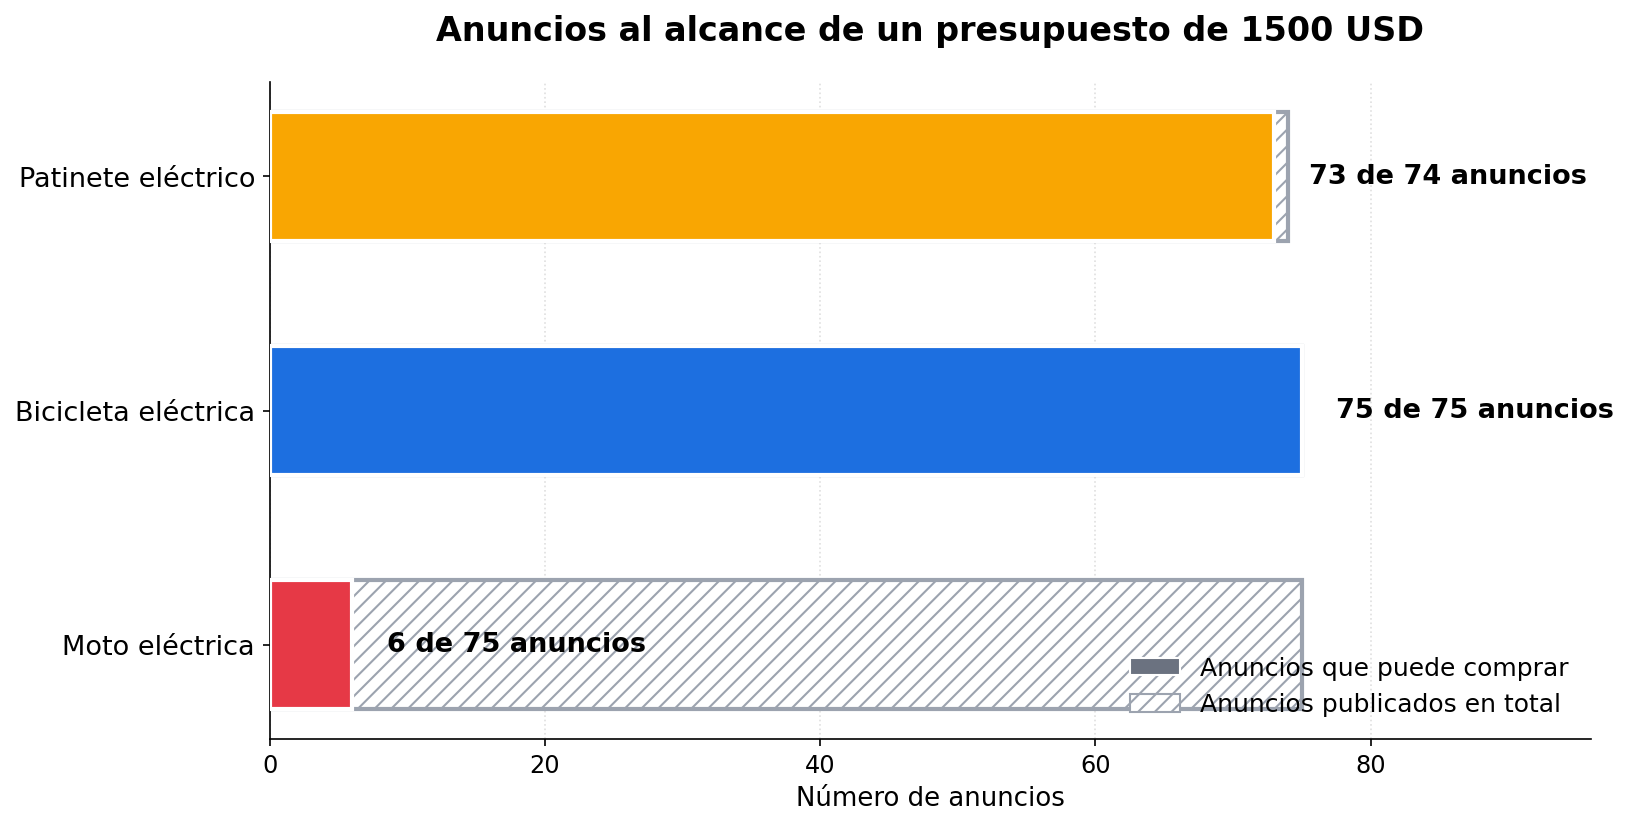
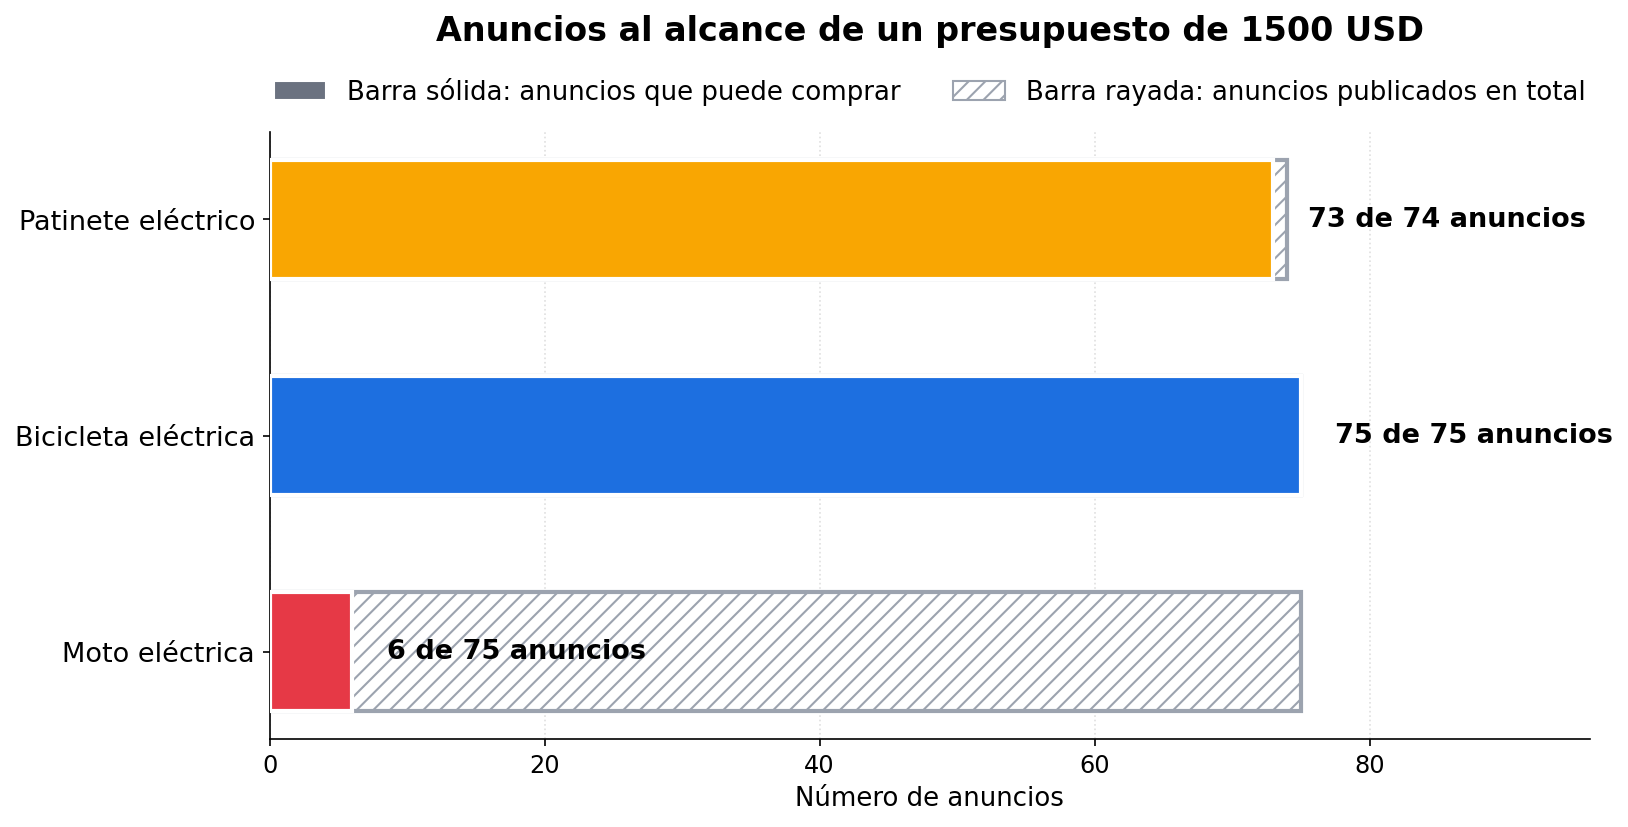
Leyendas encima de las barras, linea de mediana en negro y titulo de la fuente corregido

diff --git a/analisis.py b/analisis.py
@@ -30,6 +30,7 @@ import json
 import statistics as stat
 from pathlib import Path
 
+import matplotlib.patheffects as pe
 import matplotlib.pyplot as plt
 
 # ==============================================================================
@@ -252,6 +253,12 @@ def _guardar(fig, ruta: Path | None):
     return fig
 
 
+def _leyenda_arriba(ax, casos):
+    """Leyenda horizontal colocada encima del area del grafico."""
+    ax.legend(handles=casos, frameon=False, fontsize=12.5,
+              loc="lower center", bbox_to_anchor=(0.5, 1.005), ncol=2)
+
+
 # --------------------------------- graficos (revolico)
 
 def figura_precios(ruta: Path | None = None):
@@ -262,43 +269,50 @@ def figura_precios(ruta: Path | None = None):
     promedios = [resumen[c]["promedio"] for c in ORDEN]
     medianas = [resumen[c]["mediana"] for c in ORDEN]
 
-    fig, ax = plt.subplots(figsize=(11, 6.8))
+    fig, ax = plt.subplots(figsize=(11, 7))
     posiciones = list(range(len(nombres)))
     ancho = 0.55
+    medio = ancho / 2
 
     ax.bar(posiciones, promedios, ancho,
            color=[COLORES[c] for c in ORDEN], edgecolor="white", linewidth=2, zorder=2)
 
-    # marca de la mediana, encima de cada barra
-    ax.hlines(medianas, [p - ancho / 2 for p in posiciones], [p + ancho / 2 for p in posiciones],
-              color="white", linewidth=4.5, zorder=3)
+    # marca de la mediana: linea negra que sobresale de la barra, con borde blanco
+    for p, mediana in zip(posiciones, medianas):
+        ax.plot([p - medio - 0.11, p + medio + 0.11], [mediana, mediana],
+                color="#111111", linewidth=4.5, zorder=4, solid_capstyle="butt",
+                path_effects=[pe.withStroke(linewidth=8, foreground="white")])
+        for extremo in (p - medio - 0.11, p + medio + 0.11):
+            ax.plot([extremo, extremo], [mediana - 30, mediana + 30],
+                    color="#111111", linewidth=4.5, zorder=4,
+                    path_effects=[pe.withStroke(linewidth=8, foreground="white")])
 
     for p, categoria in zip(posiciones, ORDEN):
         r = resumen[categoria]
-        ax.text(p, r["promedio"] + 90, f"promedio  {r['promedio']:,.0f}".replace(",", "."),
-                ha="center", fontsize=13, fontweight="bold")
-        ax.text(p, r["promedio"] - 170, f"mediana  {r['mediana']:,.0f}".replace(",", "."),
-                ha="center", fontsize=11.5, color="white", fontweight="bold")
+        ax.text(p, r["promedio"] + 235, f"promedio  {r['promedio']:,.0f}".replace(",", "."),
+                ha="center", fontsize=13.5, fontweight="bold", color="#111111")
+        ax.text(p, r["promedio"] + 95, f"mediana  {r['mediana']:,.0f}".replace(",", "."),
+                ha="center", fontsize=13, fontweight="bold", color="#111111")
 
     ax.set_xticks(posiciones)
     ax.set_xticklabels(
         [f"{n}\n{r['anuncios']} anuncios" for n, r in zip(nombres, [resumen[c] for c in ORDEN])],
         fontsize=12.5)
     ax.set_ylabel("Precio (USD)", fontsize=12.5)
-    ax.set_ylim(0, 2900)
+    ax.set_ylim(0, 3300)
     ax.tick_params(axis="y", labelsize=11.5)
     ax.set_title("Precio de las categorías de vehículos eléctricos en La Habana",
-                 fontsize=16, fontweight="bold", pad=20)
+                 fontsize=16, fontweight="bold", pad=42)
 
-    # leyenda general, construida a mano para que tenga un solo motivo
+    # leyenda general: barra = promedio, linea negra = mediana
     from matplotlib.lines import Line2D
     from matplotlib.patches import Patch
-    ax.legend(handles=[
-        Patch(facecolor="#6B7280", edgecolor="white", label="Precio promedio de la categoría"),
-        Line2D([0], [0], color="#6B7280", linewidth=4.5, marker="s", markersize=9,
-               markerfacecolor="#6B7280", markeredgecolor="white",
-               label="Precio más común (mediana)"),
-    ], frameon=False, fontsize=12, loc="upper right")
+    _leyenda_arriba(ax, [
+        Patch(facecolor="#6B7280", edgecolor="white", label="Barra: precio promedio"),
+        Line2D([0], [0], color="#111111", linewidth=4.5,
+               path_effects=[pe.withStroke(linewidth=8, foreground="white")],
+               label="Línea negra: precio más común (mediana)"),
+    ])
 
     ax.spines[["top", "right"]].set_visible(False)
     ax.grid(axis="y", linestyle=":", alpha=0.4, zorder=0)
@@ -332,14 +346,14 @@ def figura_disponibilidad(ruta: Path | None = None):
     ax.set_xlim(0, max(totales) * 1.28)
     ax.tick_params(axis="x", labelsize=11.5)
     ax.set_title(f"Anuncios al alcance de un presupuesto de {PRESUPUESTO_LUCY} USD",
-                 fontsize=16, fontweight="bold", pad=20)
+                 fontsize=16, fontweight="bold", pad=44)
 
     from matplotlib.patches import Patch
-    ax.legend(handles=[
-        Patch(facecolor="#6B7280", edgecolor="white", label="Anuncios que puede comprar"),
+    _leyenda_arriba(ax, [
+        Patch(facecolor="#6B7280", edgecolor="white", label="Barra sólida: anuncios que puede comprar"),
         Patch(facecolor="white", edgecolor="#9CA3AF", hatch="///",
-              label="Anuncios publicados en total"),
-    ], frameon=False, fontsize=12, loc="lower right")
+              label="Barra rayada: anuncios publicados en total"),
+    ])
 
     ax.spines[["top", "right"]].set_visible(False)
     ax.grid(axis="x", linestyle=":", alpha=0.4, zorder=0)
@@ -382,15 +396,15 @@ def figura_autonomia_alcanzable(ruta: Path | None = None):
     ax.set_ylim(-0.6, len(ORDEN) - 0.4)
     ax.tick_params(axis="x", labelsize=11.5)
     ax.set_title(f"Autonomía disponible dentro del presupuesto de {PRESUPUESTO_LUCY} USD",
-                 fontsize=16, fontweight="bold", pad=20)
+                 fontsize=16, fontweight="bold", pad=44)
 
     from matplotlib.patches import Patch
-    ax.legend(handles=[
+    _leyenda_arriba(ax, [
         Patch(facecolor="#6B7280", edgecolor="white",
-              label="Autonomía más común (mediana)"),
+              label="Barra clara: autonomía más común (mediana)"),
         Patch(facecolor="#6B7280", edgecolor="#6B7280", alpha=0.32,
-              label="Rango entre el mínimo y el máximo"),
-    ], frameon=False, fontsize=12, loc="lower right")
+              label="Barra translúcida: rango entre el mínimo y el máximo"),
+    ])
 
     ax.spines[["top", "right"]].set_visible(False)
     ax.grid(axis="x", linestyle=":", alpha=0.4, zorder=0)

diff --git a/JOURNAL.md b/JOURNAL.md
@@ -92,6 +92,11 @@ conozca el proyecto pueda leerlo y entender cómo se llegó al resultado final.
   cada análisis tiene un gráfico distinto y con pocos elementos, pensado para que
   cualquier persona pueda leerlo sin conocimientos previos.
 - El lenguaje del notebook es formal y está dirigido a un público general.
+- Ajuste de los gráficos: las leyendas se sostienen encima del área del
+  dibujo para no tapar las barras, la mediana se marcó con una línea negra con borde
+  blanco en lugar de una línea blanca que no se distinguía sobre la barra ámbar, y
+  el encabezado de la fuente pasó a "La fuente: los anuncios de Revolico" para que
+  no se confundiera con el del primer análisis.
 
 **Problemas**
 
